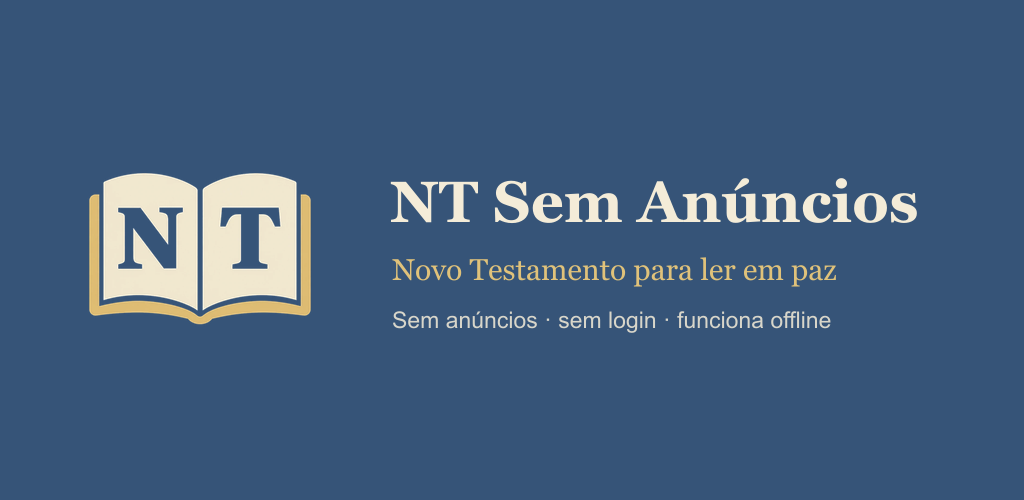
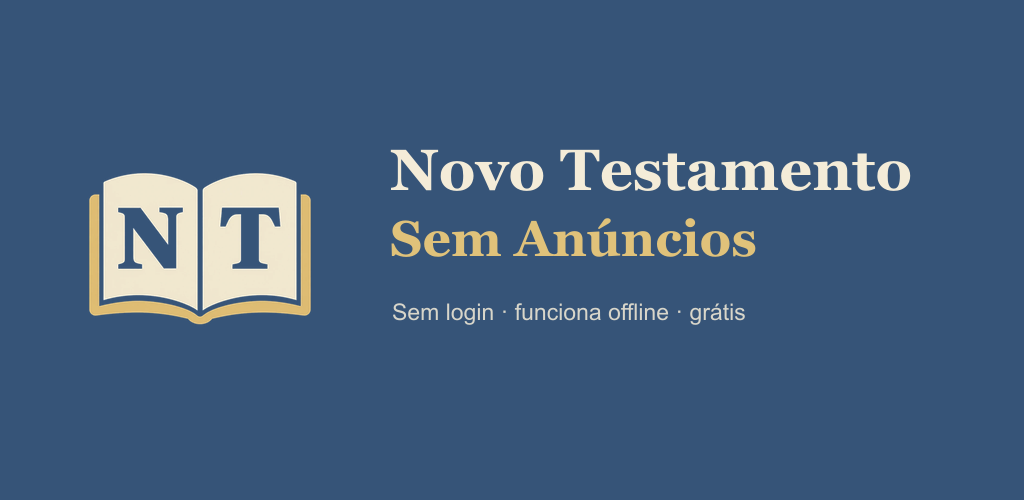
Renomear para 'Novo Testamento' (app) e 'Novo Testamento Sem Anúncios' (loja)
'NT' não era claro para quem não conhece a sigla. Pacote e repositório
não mudam.

Changed region(s): [[0.375, 0.3, 0.9062, 0.57], [0.375, 0.6, 0.8125, 0.66]]

diff --git a/docs/privacidade.html b/docs/privacidade.html
@@ -1,4 +1,4 @@
-<title>Privacidade do NT Sem Anúncios</title>
+<title>Privacidade do Novo Testamento Sem Anúncios</title>
 <link rel="stylesheet" href="https://fonts.googleapis.com/css2?family=Literata:opsz,wght@7..72,500;7..72,600&family=Source+Sans+3:wght@400;600&display=swap">
 <style>
   /* Layout: coluna única de leitura, como a página de um livro; cabeçalho com a marca do app. */
@@ -48,14 +48,14 @@
   <header>
     <div class="marca" aria-hidden="true"><span>NT</span></div>
     <div>
-      <div class="nome">NT Sem Anúncios</div>
+      <div class="nome">Novo Testamento Sem Anúncios</div>
       <div class="sub">Leitura do Novo Testamento</div>
     </div>
   </header>
 
   <div>
     <h1>Política de Privacidade</h1>
-    <div class="data">Última atualização: 2 de outubro de 2026</div>
+    <div class="data">Última atualização: 3 de outubro de 2026</div>
   </div>
 
   <div class="resumo">
@@ -65,7 +65,7 @@
 
   <section>
     <h2>Quem somos</h2>
-    <p>O NT Sem Anúncios é um aplicativo gratuito de leitura do Novo Testamento, desenvolvido por
+    <p>O Novo Testamento Sem Anúncios é um aplicativo gratuito de leitura do Novo Testamento, desenvolvido por
       Henrique Porzelt Neto. Esta política explica como o aplicativo trata as informações de quem o usa.</p>
   </section>
 
@@ -93,7 +93,7 @@
   <section>
     <h2>Copiar e compartilhar</h2>
     <p>Quando você copia ou compartilha um versículo, o texto vai para a área de transferência ou para o
-      aplicativo que você escolher. O NT Sem Anúncios não vê nem registra para onde ele foi.</p>
+      aplicativo que você escolher. O Novo Testamento Sem Anúncios não vê nem registra para onde ele foi.</p>
   </section>
 
   <section>

diff --git a/src/app/_layout.tsx b/src/app/_layout.tsx
@@ -59,7 +59,7 @@ function Navegacao() {
     <ThemeProvider value={temaNavegacao}>
       <StatusBar style={nome === 'dark' ? 'light' : 'dark'} />
       <Stack screenOptions={{ headerShadowVisible: false, headerRight: () => <BotaoAjustes /> }}>
-        <Stack.Screen name="index" options={{ title: 'NT Sem Anúncios' }} />
+        <Stack.Screen name="index" options={{ title: 'Novo Testamento' }} />
         <Stack.Screen name="ajustes" options={{ title: 'Ajustes', headerRight: () => null }} />
         <Stack.Screen name="sobre" options={{ title: 'Sobre', headerRight: () => null }} />
         <Stack.Screen name="busca" options={{ title: 'Buscar', headerRight: () => null }} />

diff --git a/src/app/sobre.tsx b/src/app/sobre.tsx
@@ -18,7 +18,7 @@ export default function Sobre() {
     <ThemedView style={styles.tela}>
       <ScrollView contentContainerStyle={styles.conteudo}>
         <ThemedText type="smallBold" themeColor="textSecondary">
-          NT SEM ANÚNCIOS · versão {Constants.expoConfig?.version}
+          NOVO TESTAMENTO SEM ANÚNCIOS · versão {Constants.expoConfig?.version}
         </ThemedText>
         <ThemedText>
           Leitura do Novo Testamento gratuita, sem anúncios, sem login e sem coleta de dados. Funciona

diff --git a/PROJETO.md b/PROJETO.md
@@ -1,4 +1,4 @@
-# NT Sem Anúncios
+# Novo Testamento Sem Anúncios
 
 Contexto do projeto para retomar o trabalho de qualquer máquina. Este
 arquivo é carregado automaticamente pelo Claude Code (via `CLAUDE.md`).
@@ -18,7 +18,10 @@ Repositório: https://github.com/Porzelt/nt-sem-anuncios (privado, branch `maste
   Fonte, licença e atribuição estão em `CREDITOS.md`, e o crédito
   aparece dentro do app. Traduções protegidas (ARC, ARA, NAA, NVI, NTLH,
   ACF...) só com autorização por escrito do detentor.
-- **Nome/pacote:** "NT Sem Anúncios", `com.porzelt.ntsemanuncios`. Sem
+- **Nome/pacote:** loja "Novo Testamento Sem Anúncios"; no celular e no app
+  "Novo Testamento" (nome curto sob o ícone). Antes era "NT Sem Anúncios" —
+  trocado porque "NT" não era claro. Pacote `com.porzelt.ntsemanuncios`
+  (não muda). Sem
   vínculo sugerido com igreja ou editora; ícone e imagens são arte própria.
 - **Sem permissões:** `android.permissions: []` e `android.blockedPermissions`
   no `app.json` removem `INTERNET` e as permissões padrão que o Expo inclui
